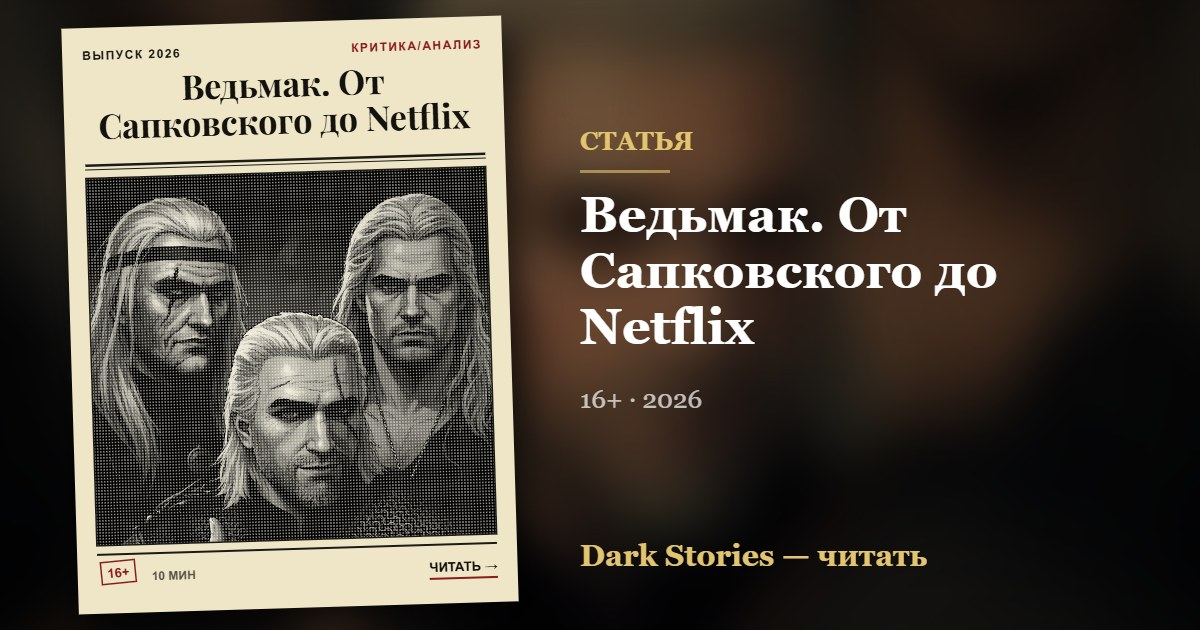
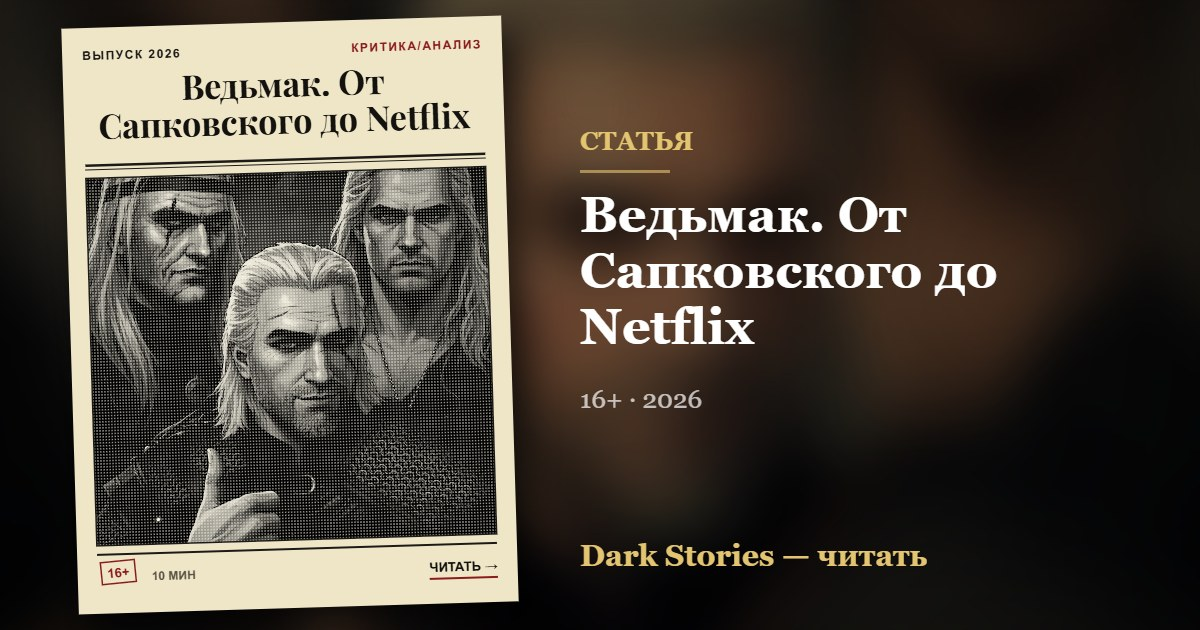
Админка: Изменены данные: «Цена мудрости Альбуса Дамблдора»; Изменены данные: «Ведьмак. От Сапковского до Netflix»

Changed region(s): [[0.0617, 0.2714, 0.4317, 0.8746], [0.0925, 0.8444, 0.1233, 0.8746]]

diff --git a/s/albus-dumbledore.html b/s/albus-dumbledore.html
@@ -1,12 +1,12 @@
 <!doctype html>
 <html lang="ru"><head><meta charset="utf-8"><meta name="viewport" content="width=device-width,initial-scale=1">
 <title>Цена мудрости Альбуса Дамблдора — Dark Stories</title>
-<meta name="description" content="Почему величайший волшебник эпохи раз за разом выбирал манипуляции — и чем это отличается от мудрости.">
+<meta name="description" content="Мы привыкли видеть в Дамблдоре доброго наставника, что всегда знает, как правильно. Но если присмотреться, за этой улыбкой скрывается стратег. Это эссе того, как величайший волшебник эпохи годами вёл свою игру, не спрашивая мнения тех, кем играл, и какую цену за это заплатил.">
 <meta property="og:type" content="article"><meta property="og:site_name" content="Dark Stories">
-<meta property="og:title" content="Цена мудрости Альбуса Дамблдора — Dark Stories"><meta property="og:description" content="Почему величайший волшебник эпохи раз за разом выбирал манипуляции — и чем это отличается от мудрости.">
+<meta property="og:title" content="Цена мудрости Альбуса Дамблдора — Dark Stories"><meta property="og:description" content="Мы привыкли видеть в Дамблдоре доброго наставника, что всегда знает, как правильно. Но если присмотреться, за этой улыбкой скрывается стратег. Это эссе того, как величайший волшебник эпохи годами вёл свою игру, не спрашивая мнения тех, кем играл, и какую цену за это заплатил.">
 <meta property="og:image" content="https://darkstories.ru/s/albus-dumbledore.jpg"><meta property="og:url" content="https://darkstories.ru/s/albus-dumbledore.html">
 <meta name="twitter:card" content="summary_large_image"><meta name="twitter:title" content="Цена мудрости Альбуса Дамблдора — Dark Stories">
-<meta name="twitter:description" content="Почему величайший волшебник эпохи раз за разом выбирал манипуляции — и чем это отличается от мудрости."><meta name="twitter:image" content="https://darkstories.ru/s/albus-dumbledore.jpg">
+<meta name="twitter:description" content="Мы привыкли видеть в Дамблдоре доброго наставника, что всегда знает, как правильно. Но если присмотреться, за этой улыбкой скрывается стратег. Это эссе того, как величайший волшебник эпохи годами вёл свою игру, не спрашивая мнения тех, кем играл, и какую цену за это заплатил."><meta name="twitter:image" content="https://darkstories.ru/s/albus-dumbledore.jpg">
 <link rel="canonical" href="https://darkstories.ru/s/albus-dumbledore.html">
 <script>location.replace("../#/read/albus-dumbledore")</script>
 <style>body{background:#0b0b0d;color:#ddd;font:16px system-ui,sans-serif;display:grid;place-items:center;min-height:100vh;margin:0}a{color:#e8c27a}</style>

diff --git a/js/data.js b/js/data.js
@@ -161,7 +161,8 @@ var WORKS = [
     "age": "16+",
     "year": "2025",
     "status": "published",
-    "minutes": 8
+    "minutes": 8,
+    "coverX": 25
   },
   {
     "slug": "cuckoos-nest",
@@ -189,7 +190,9 @@ var WORKS = [
     "age": "16+",
     "year": "2026",
     "status": "published",
-    "minutes": 10
+    "minutes": 10,
+    "coverX": 47,
+    "coverY": 42
   }
 ];
 
